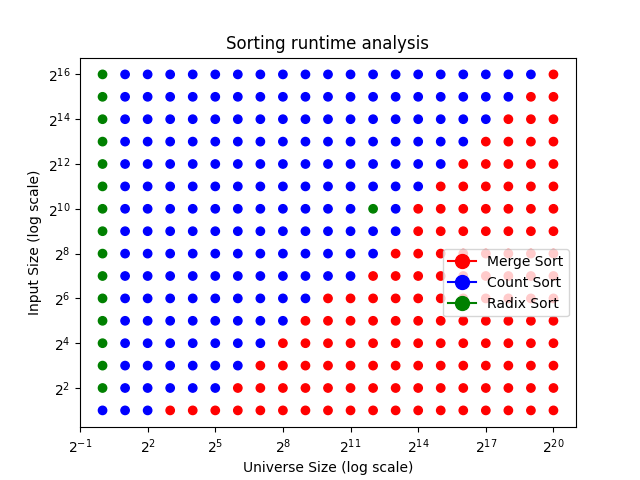
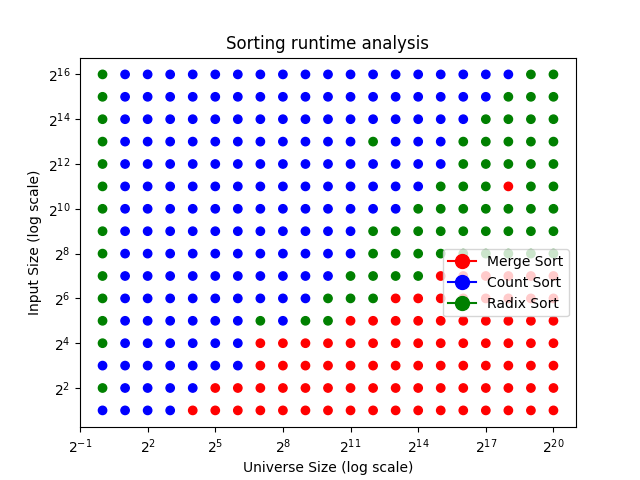
radix sort perf improvements

diff --git a/ps1/ps1_experiments.py b/ps1/ps1_experiments.py
@@ -17,7 +17,7 @@ fastest algorithm with an associated color.
 """
 
 # sets the number of trials to run when timing each algorithm (feel free to change this!)
-N = 8
+N = 2
 
 # generates set of (n, U) combinations within the given constraints
 n_U_set = list(
@@ -94,7 +94,8 @@ def plot_graph():
     labels = ["Merge Sort", "Count Sort", "Radix Sort"]
 
     legend_handles = [
-        plt.Line2D([0], [0], marker="o", color=color, label=label, markersize=10)
+        plt.Line2D([0], [0], marker="o", color=color,
+                   label=label, markersize=10)
         for color, label in zip(legend_colors, labels)
     ]
 
@@ -108,7 +109,8 @@ def plot_graph():
 
     plt.title("Sorting runtime analysis")
 
-    plt.legend(handles=legend_handles, loc="best", bbox_to_anchor=(0.5, 0.0, 0.5, 0.5))
+    plt.legend(handles=legend_handles, loc="best",
+               bbox_to_anchor=(0.5, 0.0, 0.5, 0.5))
 
     plt.savefig("scatter_plot.png")
 

diff --git a/ps1/ps1.py b/ps1/ps1.py
@@ -137,11 +137,12 @@ def radixSort(
 ) -> List[InputSortable]:
     numDigits: int = math.ceil(math.log(univsize) / math.log(base))
     inputLen = len(arr)
-    radixSortables: List[RadixSortable] = [(0, "")] * inputLen
+    radixSortables: List[RadixSortable] = [(0, None)] * inputLen
     for digit in range(0, numDigits):
         for ind in range(0, inputLen):
-            radixSortables[ind] = (BC(arr[ind][0], base, numDigits)[digit], arr[ind])
-        for ind, entry in enumerate(countSort(univsize, radixSortables)):
+            radixSortables[ind] = (
+                BC(arr[ind][0], base, numDigits)[digit], arr[ind])
+        for ind, entry in enumerate(countSort(base, radixSortables)):
             arr[ind] = entry[1]
     return arr
 
@@ -173,7 +174,7 @@ def clock(ct: int) -> int:
     return (time.time() - start) / numTests
 
 
-# res = runTest(10)
+# res = runTest(1000)
 # print(res)
 
 # print(clock(50_000))

diff --git a/notes/l5.md b/notes/l5.md
@@ -1,0 +1,32 @@
+**Binary search tree**
+
+- BST is either ⦰ or has a root R and every vertex has:
+  - A key K
+  - A value V
+  - Left and right children V_l and V_r are each a valid BST and satisfying the BST property
+- BST property:
+  - For every vertex, the left child and all descendants of V are less than the key at that vertex. The right child and all children are greater than the current node.
+- Because the BST definition is recursive, a single BST is almost always multiple BSTs
+- Define height of a BST to be the length of the longest path from leaf to root
+
+**Applied to Dynamic Predecessors**
+
+- Operations:
+  - `Insert(k, v)`
+    - Sorted array: `O(n)`
+  - `Delete(k)`
+    - Sorted array: `O(n)`
+  - `Search(k)`
+    - Sorted array: `O(log n)`
+  - `NextSmaller(k)`
+    - Sorted array: `O(log n)`
+
+**Prove correctness of insertion algorithm**
+
+- Proving correctness of a data structure only requires proving the correctness of each operation upon it.
+- As a stepping stone, prove by induction that insertion maintain the BST property:
+  - Allows assumption that any tree with more than 0 nodes satisfies the BST property
+  - This is purely internal to the implementation but is very convenient for future proofs
+- Proof by induction on height `h` the claim "`Insert(T, (k, v))` maintains the BST property if `height(t) <= h`"
+  - When _h = -1_: No vertices to check, empty tree satisfies
+  - If true for N h: At Insert(T, (k, v)), T has a root v.
